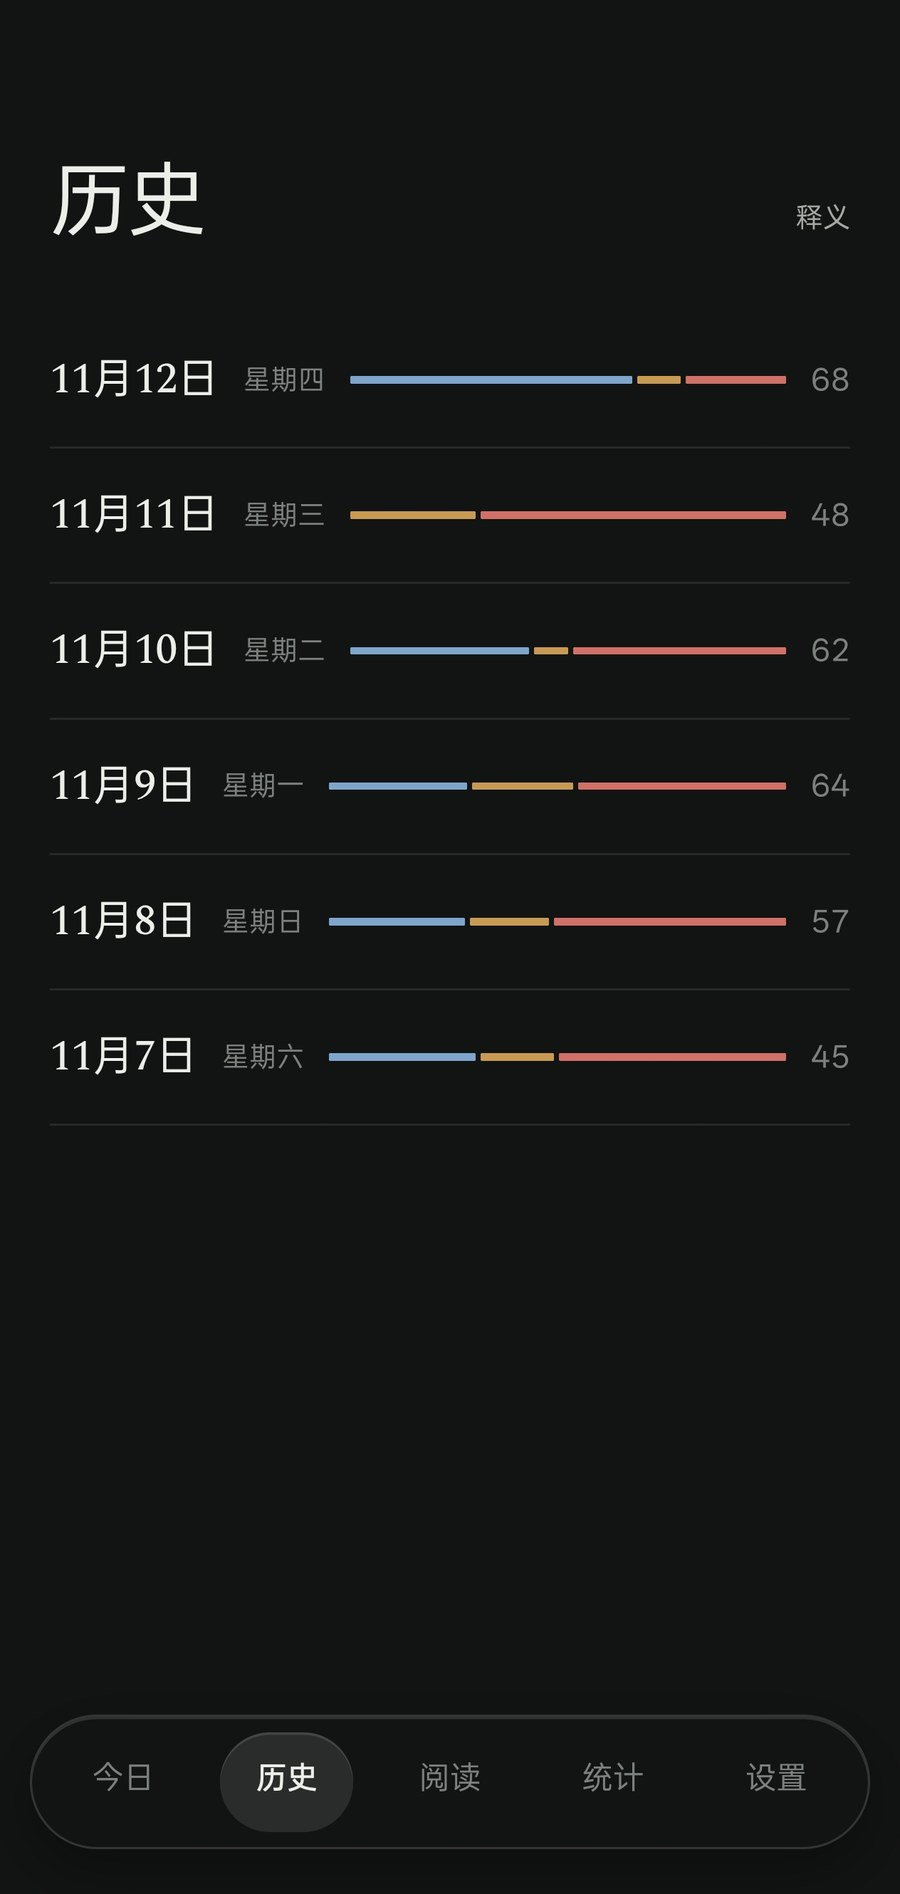
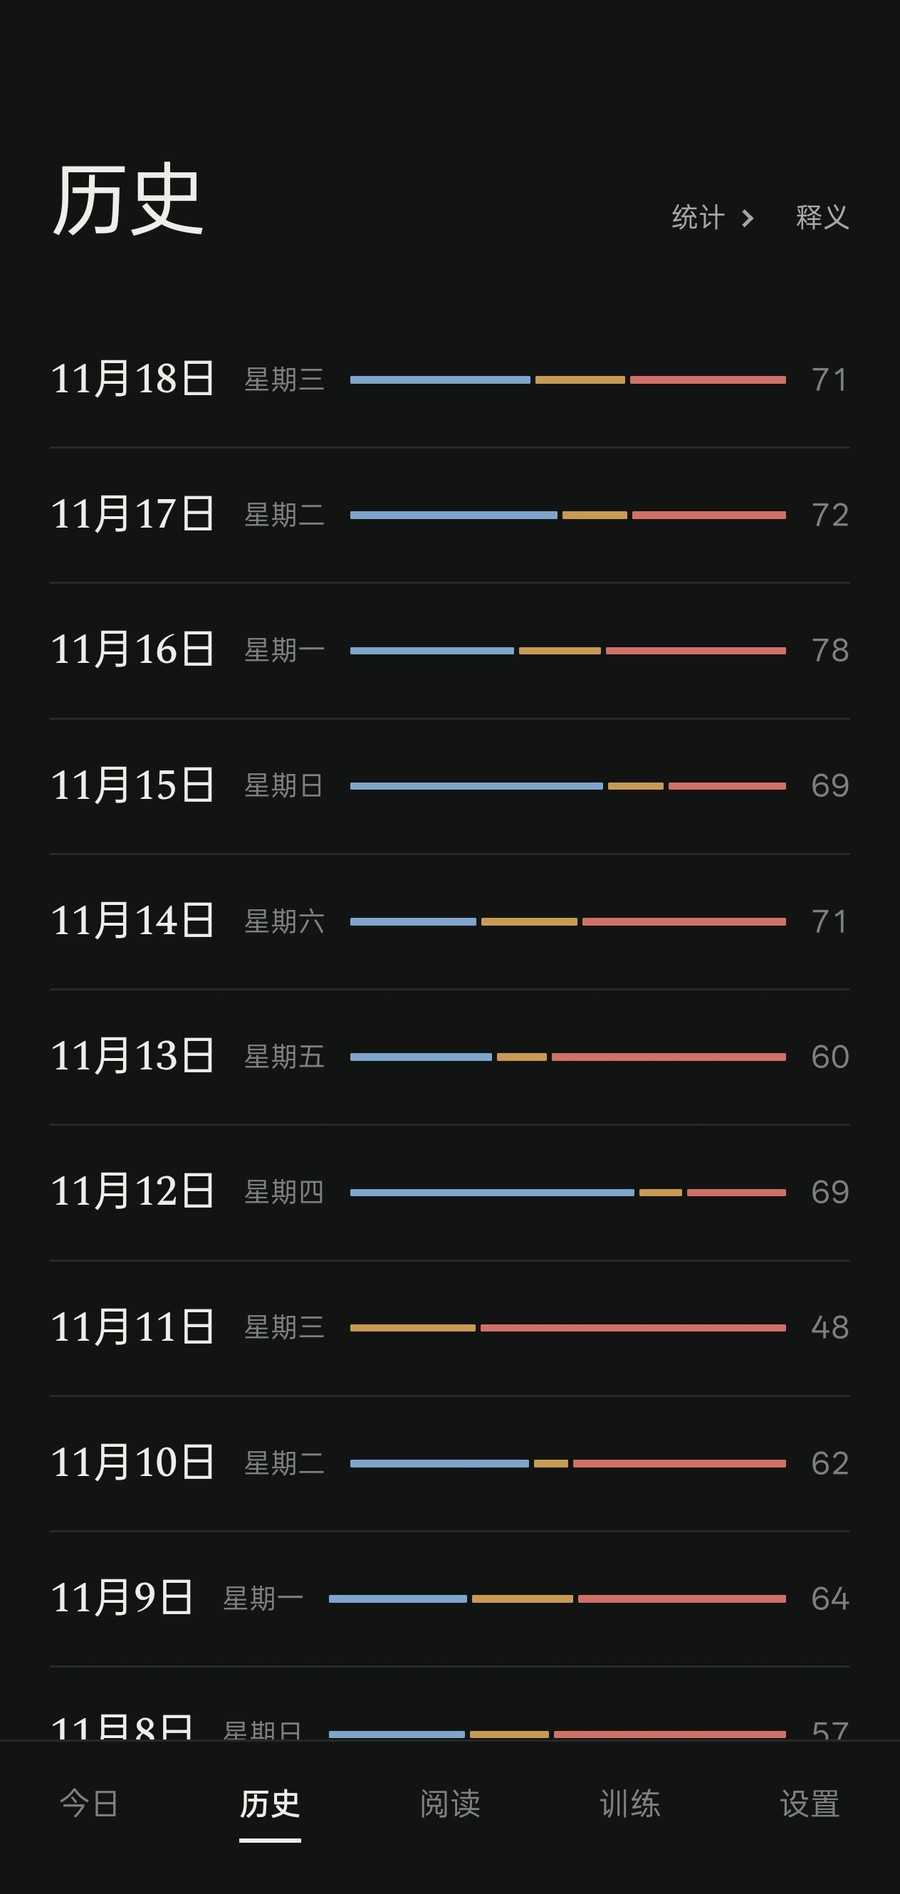
docs: 其余截图换成 0.24.1

diff --git a/README.md b/README.md
@@ -8,12 +8,12 @@
 基于墨墨背单词开放 API 的 Android 应用，数据只存在本机。
 
 <p align="center">
-  <img src="screenshots/today.jpg?v=02410" width="16%" alt="今日" />
-  <img src="screenshots/history.jpg?v=02410" width="16%" alt="历史" />
-  <img src="screenshots/reading.jpg?v=02410" width="16%" alt="阅读" />
+  <img src="screenshots/today.jpg?v=02411" width="16%" alt="今日" />
+  <img src="screenshots/history.jpg?v=02411" width="16%" alt="历史" />
+  <img src="screenshots/reading.jpg?v=02411" width="16%" alt="阅读" />
   <img src="screenshots/training.jpg?v=02411" width="16%" alt="训练" />
   <img src="screenshots/generate.jpg?v=02410" width="16%" alt="生成文章" />
-  <img src="screenshots/settings.jpg?v=02410" width="16%" alt="设置" />
+  <img src="screenshots/settings.jpg?v=02411" width="16%" alt="设置" />
 </p>
 
 ---
